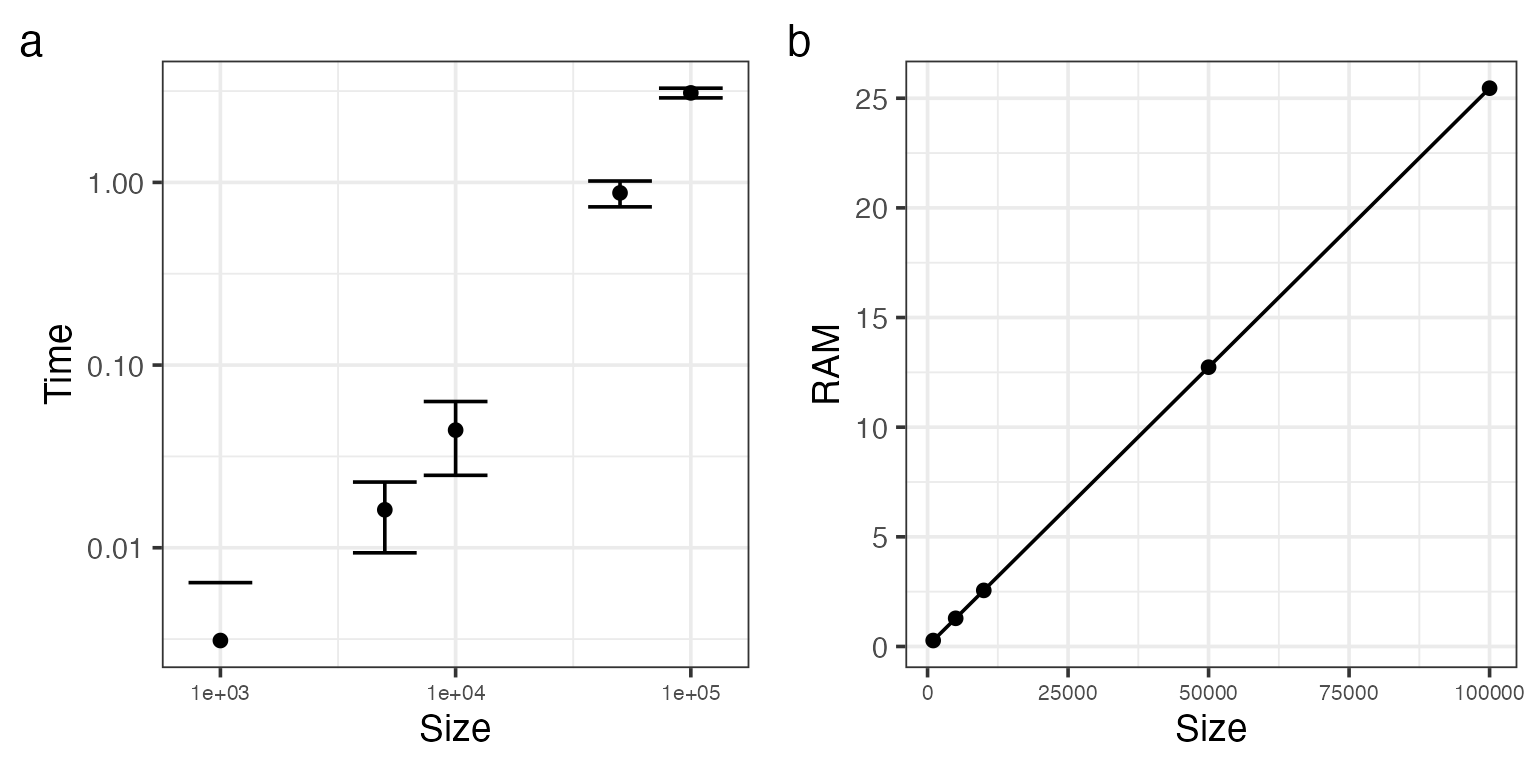
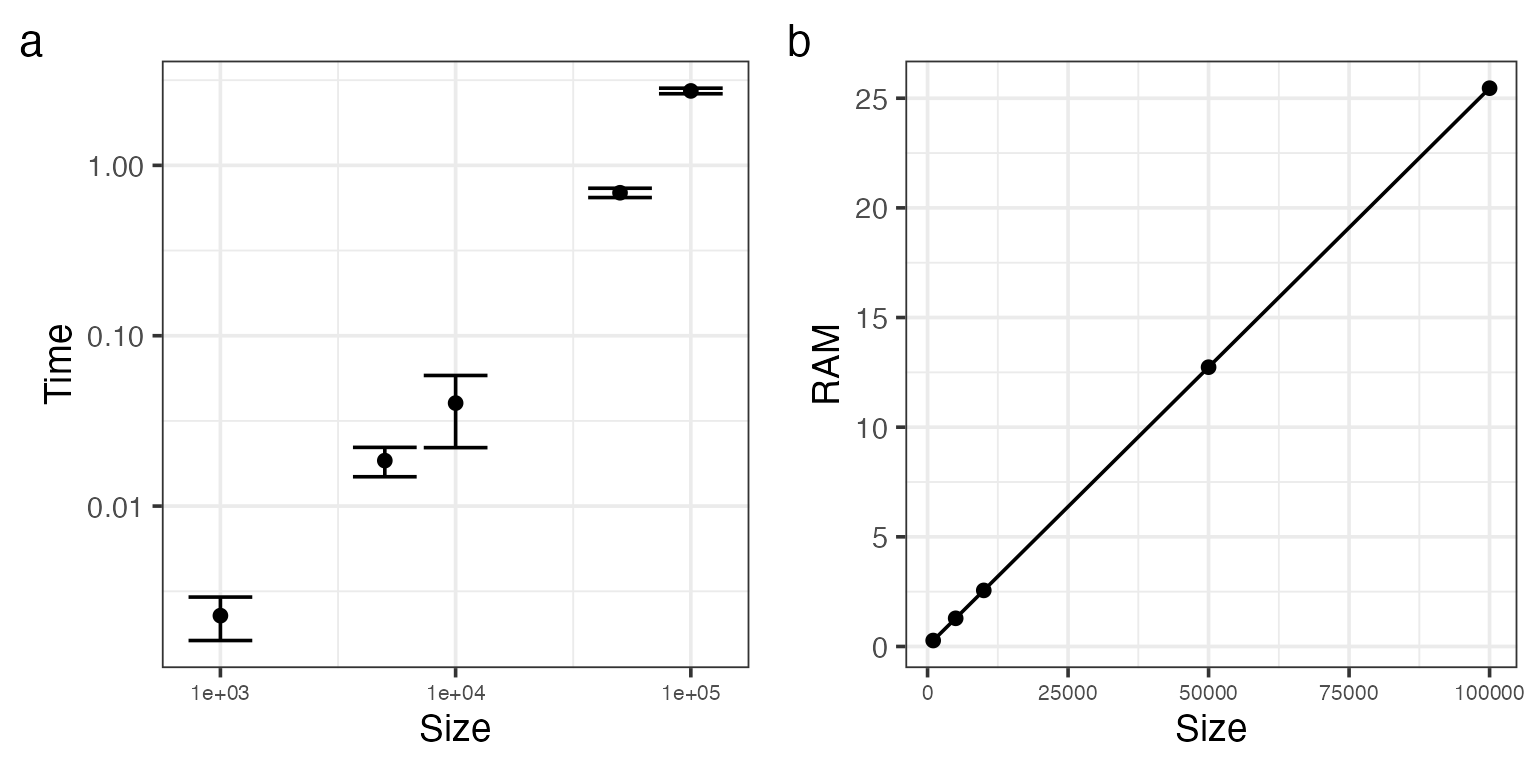
EricMarcon published a site update

diff --git a/README.md b/README.md
@@ -13,5 +13,5 @@
 
 Formats:
 
-- [HTML](https://EricMarcon.github.io/MLargeDataSets/MLargeDataSets.html) with [appendix](https://EricMarcon.github.io/MLargeDataSets/Appendix.html) 
-- [PDF](https://EricMarcon.github.io/MLargeDataSets/MLargeDataSets.pdf) with [appendix](https://EricMarcon.github.io/MLargeDataSets/Appendix.pdf) 
+- [HTML](https://EricMarcon.github.io/MLargeDataSets/Rev1.html) with [appendix](https://EricMarcon.github.io/MLargeDataSets/Appendix.html) 
+- [PDF](https://EricMarcon.github.io/MLargeDataSets/Rev1.pdf) with [appendix](https://EricMarcon.github.io/MLargeDataSets/Appendix.pdf) 